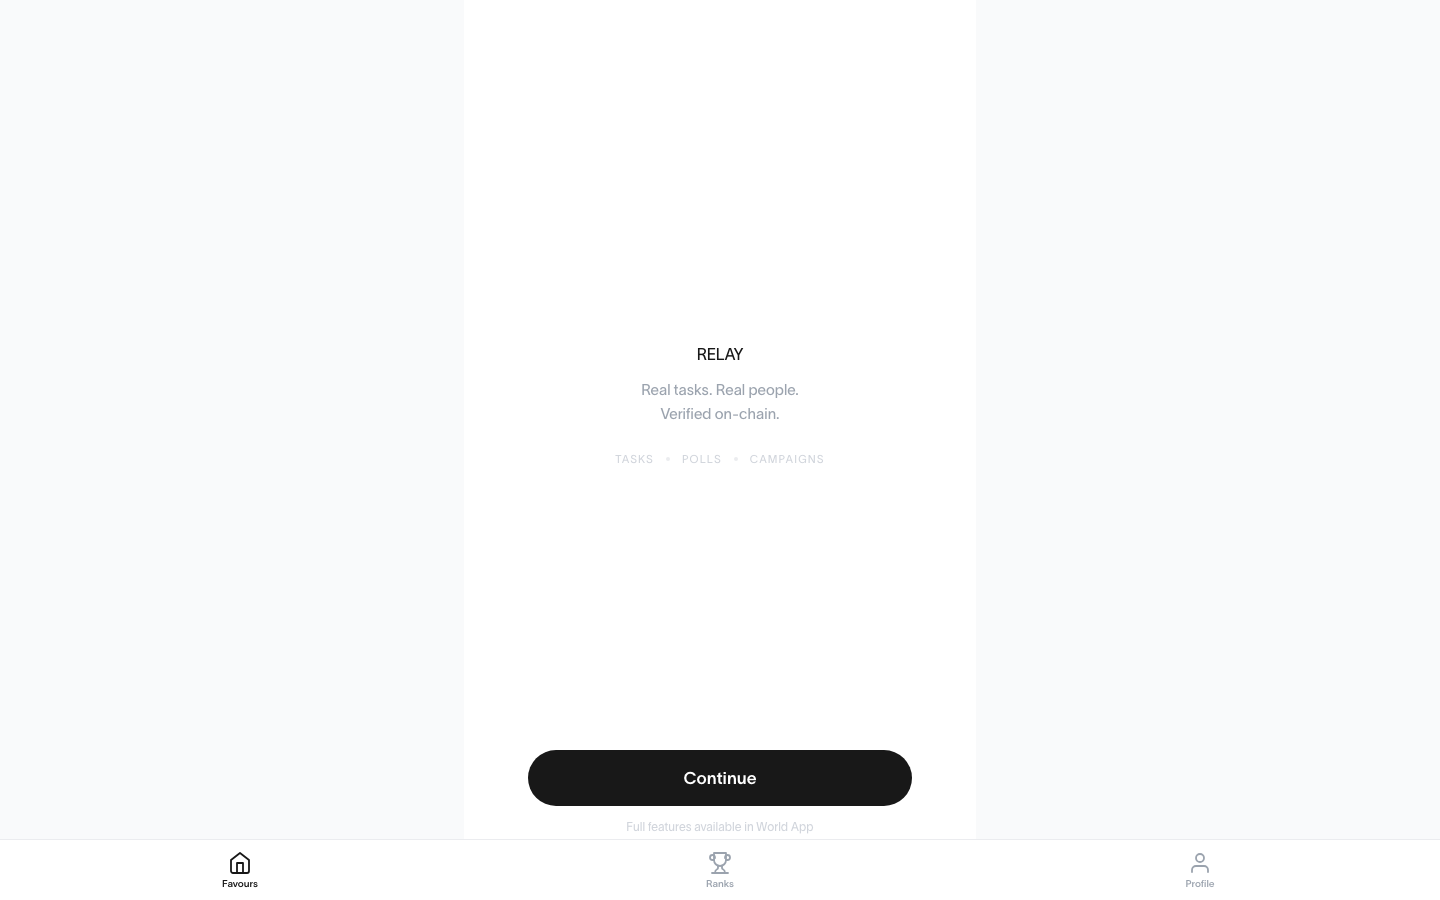
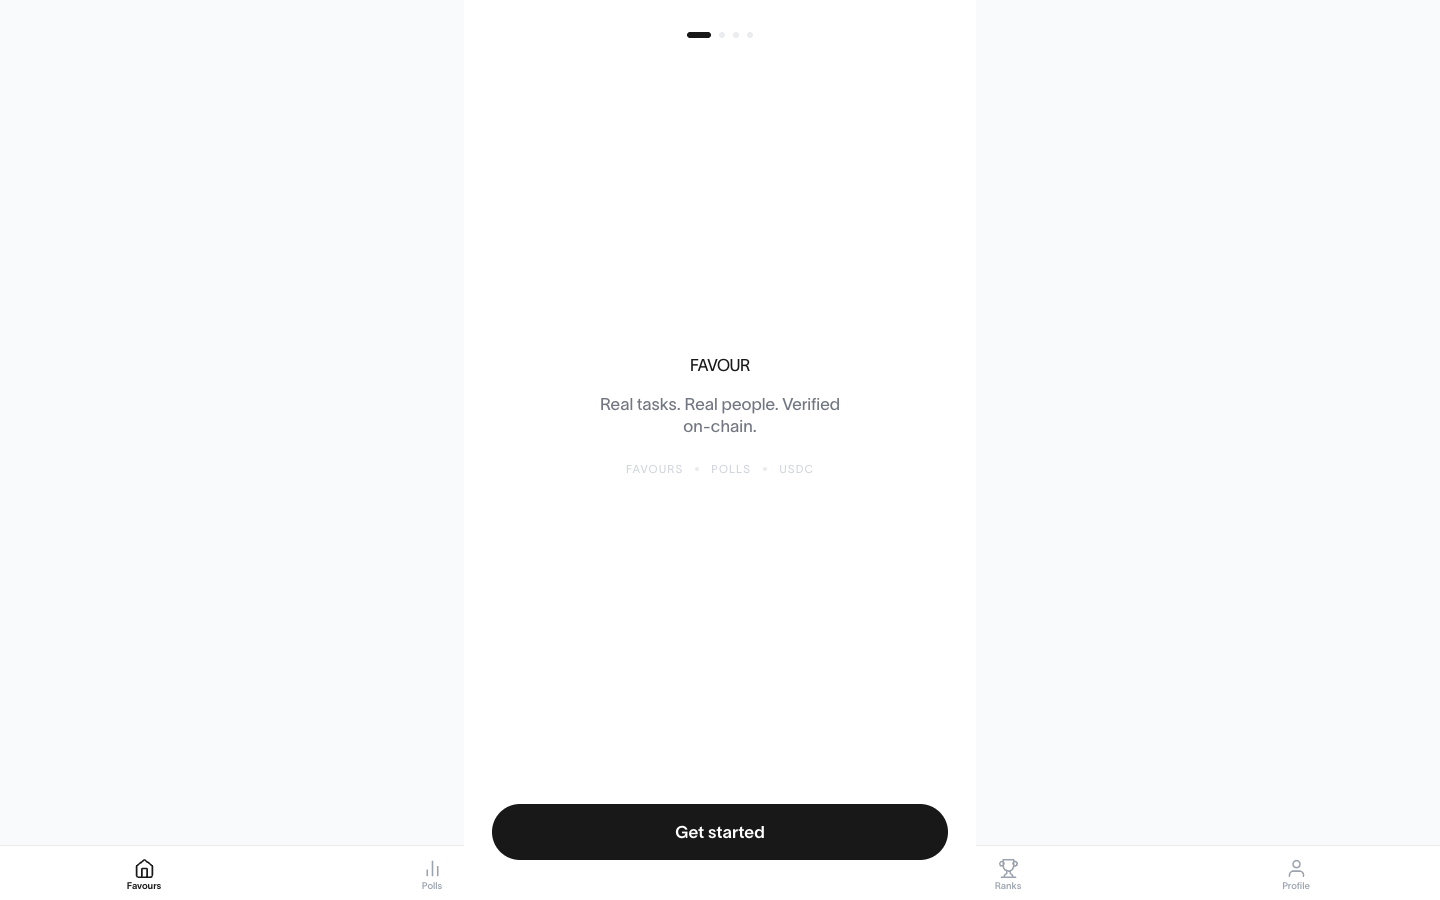
portfolio: non-voice hygiene — FAVOUR asset, Hermes copy, $176K number fix
- swap low-res dead-name relay.png for clean live FAVOUR shot
- Hermes: tighten to "ships what the system writes", drop em dash
- opus + sonnet hero count-ups: hardcoded $188K -> $176K (STATS drift)
- JOURNEY 2026: dead name relay -> favour
- REVIEW.md: hand back exactly 3 stories + 5 decisions needing Oscar's voice

Build green, 10/10 routes. Unpushed on nightrun per instruction.

diff --git a/app/shared/data.ts b/app/shared/data.ts
@@ -218,7 +218,7 @@ export const PROJECTS: Project[] = [
     name: 'Hermes',
     slug: 'hermes',
     oneLiner: 'the delivery lane. bagel thinks, hermes ships',
-    story: 'grok-powered agent on the vps, sibling to bagel. takes what the system writes and gets it out the door — its own model, its own memory, its own spend.',
+    story: 'grok-powered agent on the vps, sibling to bagel. ships what the system writes, with its own model, memory, and spend.',
     result: 'running on the vps',
     buildTime: 'nights',
     year: '2026',
@@ -400,7 +400,7 @@ export const JOURNEY = [
   { year: '2022', place: 'nyc / bogota', chapter: 'hackathon', summary: '4 wins in one year. 9 bounties at eth bogota. arbitrum partner golds. nft safe launch finalist. gates.wtf.' },
   { year: '2022-24', place: 'stockholm / paris', chapter: 'music', summary: 'anotherblock. employee #4. head of product. rihanna, weeknd, michael jackson on-chain. 40K users, $2.1M volume. coinbase base launch partner. moved to paris.' },
   { year: '2025', place: 'paris', chapter: 'security', summary: 'staff pm at ledger. blockaid ($51M prevented), chain assessment (2 weeks to 2 hours), clear signing BTC/ETH/SOL. protecting 8M+ devices.' },
-  { year: '2026', place: 'paris', chapter: 'agents', summary: '5 terminals at 3am. relay, receipt, yieldbound, briefmcp, people radar, bagel. 16 hackathons. $176K in prizes. 39.05 ETH.' },
+  { year: '2026', place: 'paris', chapter: 'agents', summary: '5 terminals at 3am. favour, receipt, yieldbound, briefmcp, people radar, bagel. 16 hackathons. $176K in prizes. 39.05 ETH.' },
 ];
 
 // ════════════════════════════════════════════════════════════

diff --git a/app/opus/page.tsx b/app/opus/page.tsx
@@ -391,7 +391,7 @@ export default function OpusPage() {
           <div style={{ display: 'flex', gap: 'clamp(36px, 7vw, 72px)', flexWrap: 'wrap', justifyContent: 'center' }}>
             {([
               { to: STATS.hackathonWins, prefix: '', suffix: '', l: 'wins' },
-              { to: 188, prefix: '$', suffix: 'K+', l: 'in prizes' },
+              { to: 176, prefix: '$', suffix: 'K', l: 'in prizes' },
               { to: 40, prefix: '', suffix: 'K', l: 'users' },
               { to: 51, prefix: '$', suffix: 'M', l: 'protected' },
             ]).map((s, i) => (

diff --git a/app/sonnet/page.tsx b/app/sonnet/page.tsx
@@ -656,7 +656,7 @@ export default function SonnetPage() {
         <div style={{ display: 'grid', gridTemplateColumns: 'repeat(auto-fit, minmax(160px, 1fr))', gap: '1px', background: C.rule, border: `1px solid ${C.rule}` }}>
           {[
             { n: STATS.hackathonWins, pre: '',   suf: '',  label: 'hackathon wins'   },
-            { n: 188,                 pre: '$', suf: 'k', label: 'in prizes'         },
+            { n: 176,                 pre: '$', suf: 'k', label: 'in prizes'         },
             { n: Number(STATS.users.replace('K','')) || 40, pre: '', suf: 'k', label: 'users shipped to' },
             { n: 51,                  pre: '$', suf: 'm', label: 'losses prevented'  },
           ].map((m, i) => (

diff --git a/REVIEW.md b/REVIEW.md
@@ -1,129 +1,48 @@
-# Portfolio — Pre-Deploy Review Phase (2026-07-13)
+# Portfolio — Review handoff (2026-07-14)
 
-The gate before `oscarmorke.com`. Review each item on **localhost:3001** (toggle fable · opus · sonnet · haiku).
-Mark each line: ✅ good · ✏️ change (say what) · ❌ cut. Nothing deploys until §0 is all ✅.
-
-Goal reminder: **same context, same stories — the model is the differentiator.** Content is the constant; design voice is the variable.
+Non-voice hygiene pass done on `nightrun/portfolio-hygiene-2026-07-13` (unpushed). Build green.
+Everything below the line **needs your voice** — nothing here was fabricated or guessed.
 
 ---
 
-## 0. Deploy gates (all must be ✅)
-- [ ] Images reviewed + gaps filled/accepted
-- [ ] Copy reviewed
-- [ ] Stories in your voice (§3)
-- [ ] Useful graph added + reviewed (§4)
-- [ ] Micro-animation pass (§5)
-- [ ] Open facts + renames resolved (§6)
-- [ ] Cohesion pass — name-the-model-from-any-screenshot (§7)
-- [ ] Branch pushed → merged
-- [ ] Live on oscarmorke.com (your gate)
+## ✅ Done this pass (non-voice, applied)
 
----
-
-## 1. Images  (8 on disk · 11 missing)
-
-| Project | Track | Image | Note / action |
+| # | Change | File | Verified |
 |---|---|---|---|
-| Ledger | work | ✅ ledger.jpg | ok |
-| Anotherblock | work | ✅ anotherblock.jpg | ok |
-| Etablera | work | ✅ etablera.jpg | ⚠️ 770KB — compress |
-| Wave Radio | work | ❌ none | add cover art? |
-| RELAY | agents | ⚠️ relay.png | 22KB, low-res — **replace** (+ RELAY→FAVOUR, §6) |
-| Yieldbound | agents | ✅ yieldbound.png | ok |
-| RECEIPT | agents | ✅ receipt.png | ok |
-| Loop | agents | ✅ loop.png | ok |
-| The OS | agents | ❌ none | terminal screenshot? (it's the hero of "the stack") |
-| Bagel / Hermes / People Radar / BriefMCP | agents | ❌ none | text-only by design in "the stack" — accept? |
-| Gates | hack | ✅ gates.jpg | ok |
-| ArbiGates / NFT Safe / AAtomato / Swosh / Contrib | hack | ❌ none | timeline-only (no card) — accept? |
+| 1 | Swapped low-res `relay.png` (showed dead name **RELAY**, "Continue", "TASKS·POLLS·CAMPAIGNS") for a clean current shot of the live app (**FAVOUR**, "Get started", "FAVOURS·POLLS·USDC") | `public/projects/relay.png` | real screenshot of world-relay.vercel.app, 1440×900 |
+| 2 | Hermes copy tightened + em dash removed | `data.ts` (Hermes.story) | see decision D1 |
+| 3 | Hero count-up **$188K+ → $176K** (was hardcoded, not reading STATS) | `opus/page.tsx:394` | `188` gone from build, `176` present |
+| 4 | Key-metric **$188k → $176k** (same hardcoded-drift bug) | `sonnet/page.tsx:659` | ✅ |
+| 5 | Dead name in 2026 "building now" list: **relay → favour** | `data.ts:403` (JOURNEY) | ✅ |
 
-**Decisions:** (a) replace `relay.png`; (b) add an image for The OS? (c) accept text-only for the rest?
+**Copy pass result:** no typos found. Model labels current (Fable 5 · Opus 4.8 · Sonnet 5 · Haiku 4.5). Only stale numbers on the whole site were the two hardcoded `188`s above (fable/haiku/opengraph/opus-record all correctly read `STATS`). `40.77 ETH`, `$115K`, `$188K` fully purged.
+
+Build: `npm run build` green, 10/10 routes prerender. `git diff --stat`: 4 files, unpushed.
 
 ---
 
-## 2. Copy
+## 🗣 NEEDS YOUR VOICE — the 3 stories (do NOT ship factual)
 
-Strong already — the voice is there: *"wine and cheese between deploys"*, *"smultronställe"*, *"what if it works out?"*, *"the system remembers so i can think."*
-Review for: anything that reads generic, any claim you want softened/sharpened.
-- Hero taglines per model — ✅/✏️?
-- `THOUGHTS` (the coda/notes lines) — ✅/✏️?
-- Track blurbs (full-time / agentic / hackathons) — ✅/✏️?
+These are the humanising stories. Still factual-only in the code. I did not write them — they need a real moment from you. 3-question interview each, I capture + draft in your voice, you approve.
 
----
-
-## 3. Stories — the human voice  (the original objective)
-
-Project `story` fields are mostly **factual**, and decent. But the three you picked to *humanize* aren't captured yet:
-
-| Category | Anchor | Status | Needs |
+| # | Category | Anchor | What's missing |
 |---|---|---|---|
-| Full-time | **the arc** (Etablera → rocky road → PM: Matos, Antler, grants, DeFi) | ❌ not written | 3-Q interview |
-| Agentic | **The OS / 5 terminals** | factual only | the *feel* of a 3am night |
-| Hackathons | **Gates / Bogotá** | factual only | the scene + why it grabs you |
-
-**Decision:** do the 3-question interview per category now (I capture, draft in your voice, you approve) — or ship factual?
+| S1 | Full-time | **the arc** — Etablera → the rocky road → Matos DAO, Antler $95K declined, grants, DeFi → Ledger PM | the throughline. why each turn. what the "no" to Antler cost / bought |
+| S2 | Agentic | **The OS / 5 terminals** | the *feel* of a 3am night. not the spec — the scene |
+| S3 | Hackathons | **Gates / Bogotá** | the scene + why proof-of-personhood grabbed you |
 
 ---
 
-## 4. Useful graph  ✅ BUILT — 4 ways (review on localhost)
+## 🗣 NEEDS YOUR VOICE — decisions
 
-**"The record over time" — prize $ per event, 2018 → 2026**, from real `HACKATHON_TIMELINE`. Rendered 4 ways (same data, four voices):
-- **Haiku** — `$ ./record --plot`, ascii block bars, `$14,169 ← peak`
-- **Opus** — "PLATE I", engraved gold bars, hollow ticks for no-purse years, above the record list
-- **Sonnet** — "Fig. 1", thin ruled bars, editorial caption
-- **Fable** — hand-drawn line + colored dots sized by prize, draws in on scroll
-
-Story it tells: prize-hunting years (2021–23, Bogotá peak) → 2026 the bars flatten *on purpose* (stopped counting purses, started shipping). Draw-in animation on all four.
-**Your call:** keep 4-ways (recommended, on-theme) or also add a shared one on `/compare`?
-
-### Fixed this pass (number hygiene)
-- `$$51M` → `$51M` (sonnet ledger KPI, double-dollar bug)
-- prizes KPI `$115k` → `$188k` (sonnet had the pre-hygiene number hardcoded)
-- swept all 4 pages: no other stale numbers / double-dollars
+- **D1 — Hermes copy.** Applied your REVIEW draft wording, minus the em dash:
+  *"grok-powered agent on the vps, sibling to bagel. ships what the system writes, with its own model, memory, and spend."*
+  Veto / tweak the model/role/"ships" framing?
+- **D2 — "complete record" vs "longer record".** `/compare` calls Opus "the only page with the complete record"; the Opus page itself says "the longer record". 14 rows shown vs 16 competed. Pick one word. (Prior commit deliberately moved away from completeness language → I'd align compare to "longer", but it's your call.)
+- **D3 — Em dashes.** 47 across the site. They clash with your no-em-dash rule but read as intentional editorial typography here. I left them all (only dropped the one in the Hermes line I was already rewriting). Keep as design choice, or strip site-wide?
+- **D4 — `$176k+` vs `$176K`.** Fable's count-up shows "$176k+"; opus/haiku show "$176K". Cosmetic. Unify or leave the per-model voice?
+- **D5 — Missing card images.** Still none for Wave Radio, The OS, BriefMCP, Bagel, Hermes, People Radar. The OS is the hero of "the stack" and would benefit most. Accept text-only, or shoot/generate art?
 
 ---
 
-## 5. Micro-animations  🟡 in progress (within taste rules: no bounce/spring/parallax/twinkle)
-
-Done this pass:
-- ✅ Graph **draw-in** on all 4 charts (bars grow / line draws on scroll)
-- ✅ Opus hero numbers **count up** (9 · $188K+ · 40K · $51M) — the crescendo reveal
-- ✅ Haiku terminal **cursor** blink (signature)
-- ✅ Stack reveals staggered (all 4)
-
-Still available if you want them:
-- Count-ups on sonnet/fable already exist; haiku left static (correct for terminal)
-- Hover: project accent **underline draw** (unify the language) — needs your taste call
-
----
-
-## 6. Open facts + renames  (Helicon flags dead names in live claims)
-
-### ✅ Decided + applied (Jul 13)
-- **RELAY → FAVOUR** — card now titled "RELAY → FAVOUR"; story reads "won as RELAY … ships today as FAVOUR". Timeline keeps the win credited as RELAY.
-- **NVIDIA** — kept "nvidia-sponsored ai hackathon" (sponsor context, no role claim). ✅ correct as-is.
-- **Model labels /compare** — now Opus 4.8 · Sonnet 5 · Haiku 4.5 · Fable 5.
-
-### ⛔ Still open
-- **Hermes** — you said "tweak it" but we didn't capture WHAT. Current copy: *"grok-powered agent on the vps, sibling to bagel. takes what the system writes and gets it out the door."* → tell me the fix tomorrow (model? role? the "ships" framing?).
-
-
-- **Hermes** wording — confirm: *"grok-powered agent on the vps, sibling to bagel — ships what the system writes."*
-- **NVIDIA** — *"nvidia-sponsored ai hackathon"* (2019). Your role: running / competing / attending?
-- **RELAY → FAVOUR** — live product is FAVOUR; the World Build win *was* as RELAY. Keep RELAY (historical) / rename to FAVOUR / show "RELAY → FAVOUR"?
-- **Model version labels on `/compare`** — currently "Opus 4 · Sonnet 4 · Haiku 4 · Fable 5". Stale: current families are **Opus 4.8 · Sonnet 5 · Haiku 4.5 · Fable 5**. Which version built each page? (I won't guess — tell me and I'll set them.)
-
----
-
-## 7. Cohesion pass  (last, after content locks)
-
-Each page commits fully to its archetype so a stranger names the model from *any* screenshot:
-- **Haiku** — all-terminal, kill stray serif
-- **Opus** — lean harder into the score/movement metaphor
-- **Sonnet** — full editorial grid discipline
-- **Fable** — the paint/story world all the way through
-
----
-
-### How do you want to run it?
-Top-down together, or I start on the highest-leverage build (**the graph, 4 ways**) while you review images + copy on localhost?
+*Gate reminder: nothing pushes/deploys until you clear S1–S3 + D1–D5.*